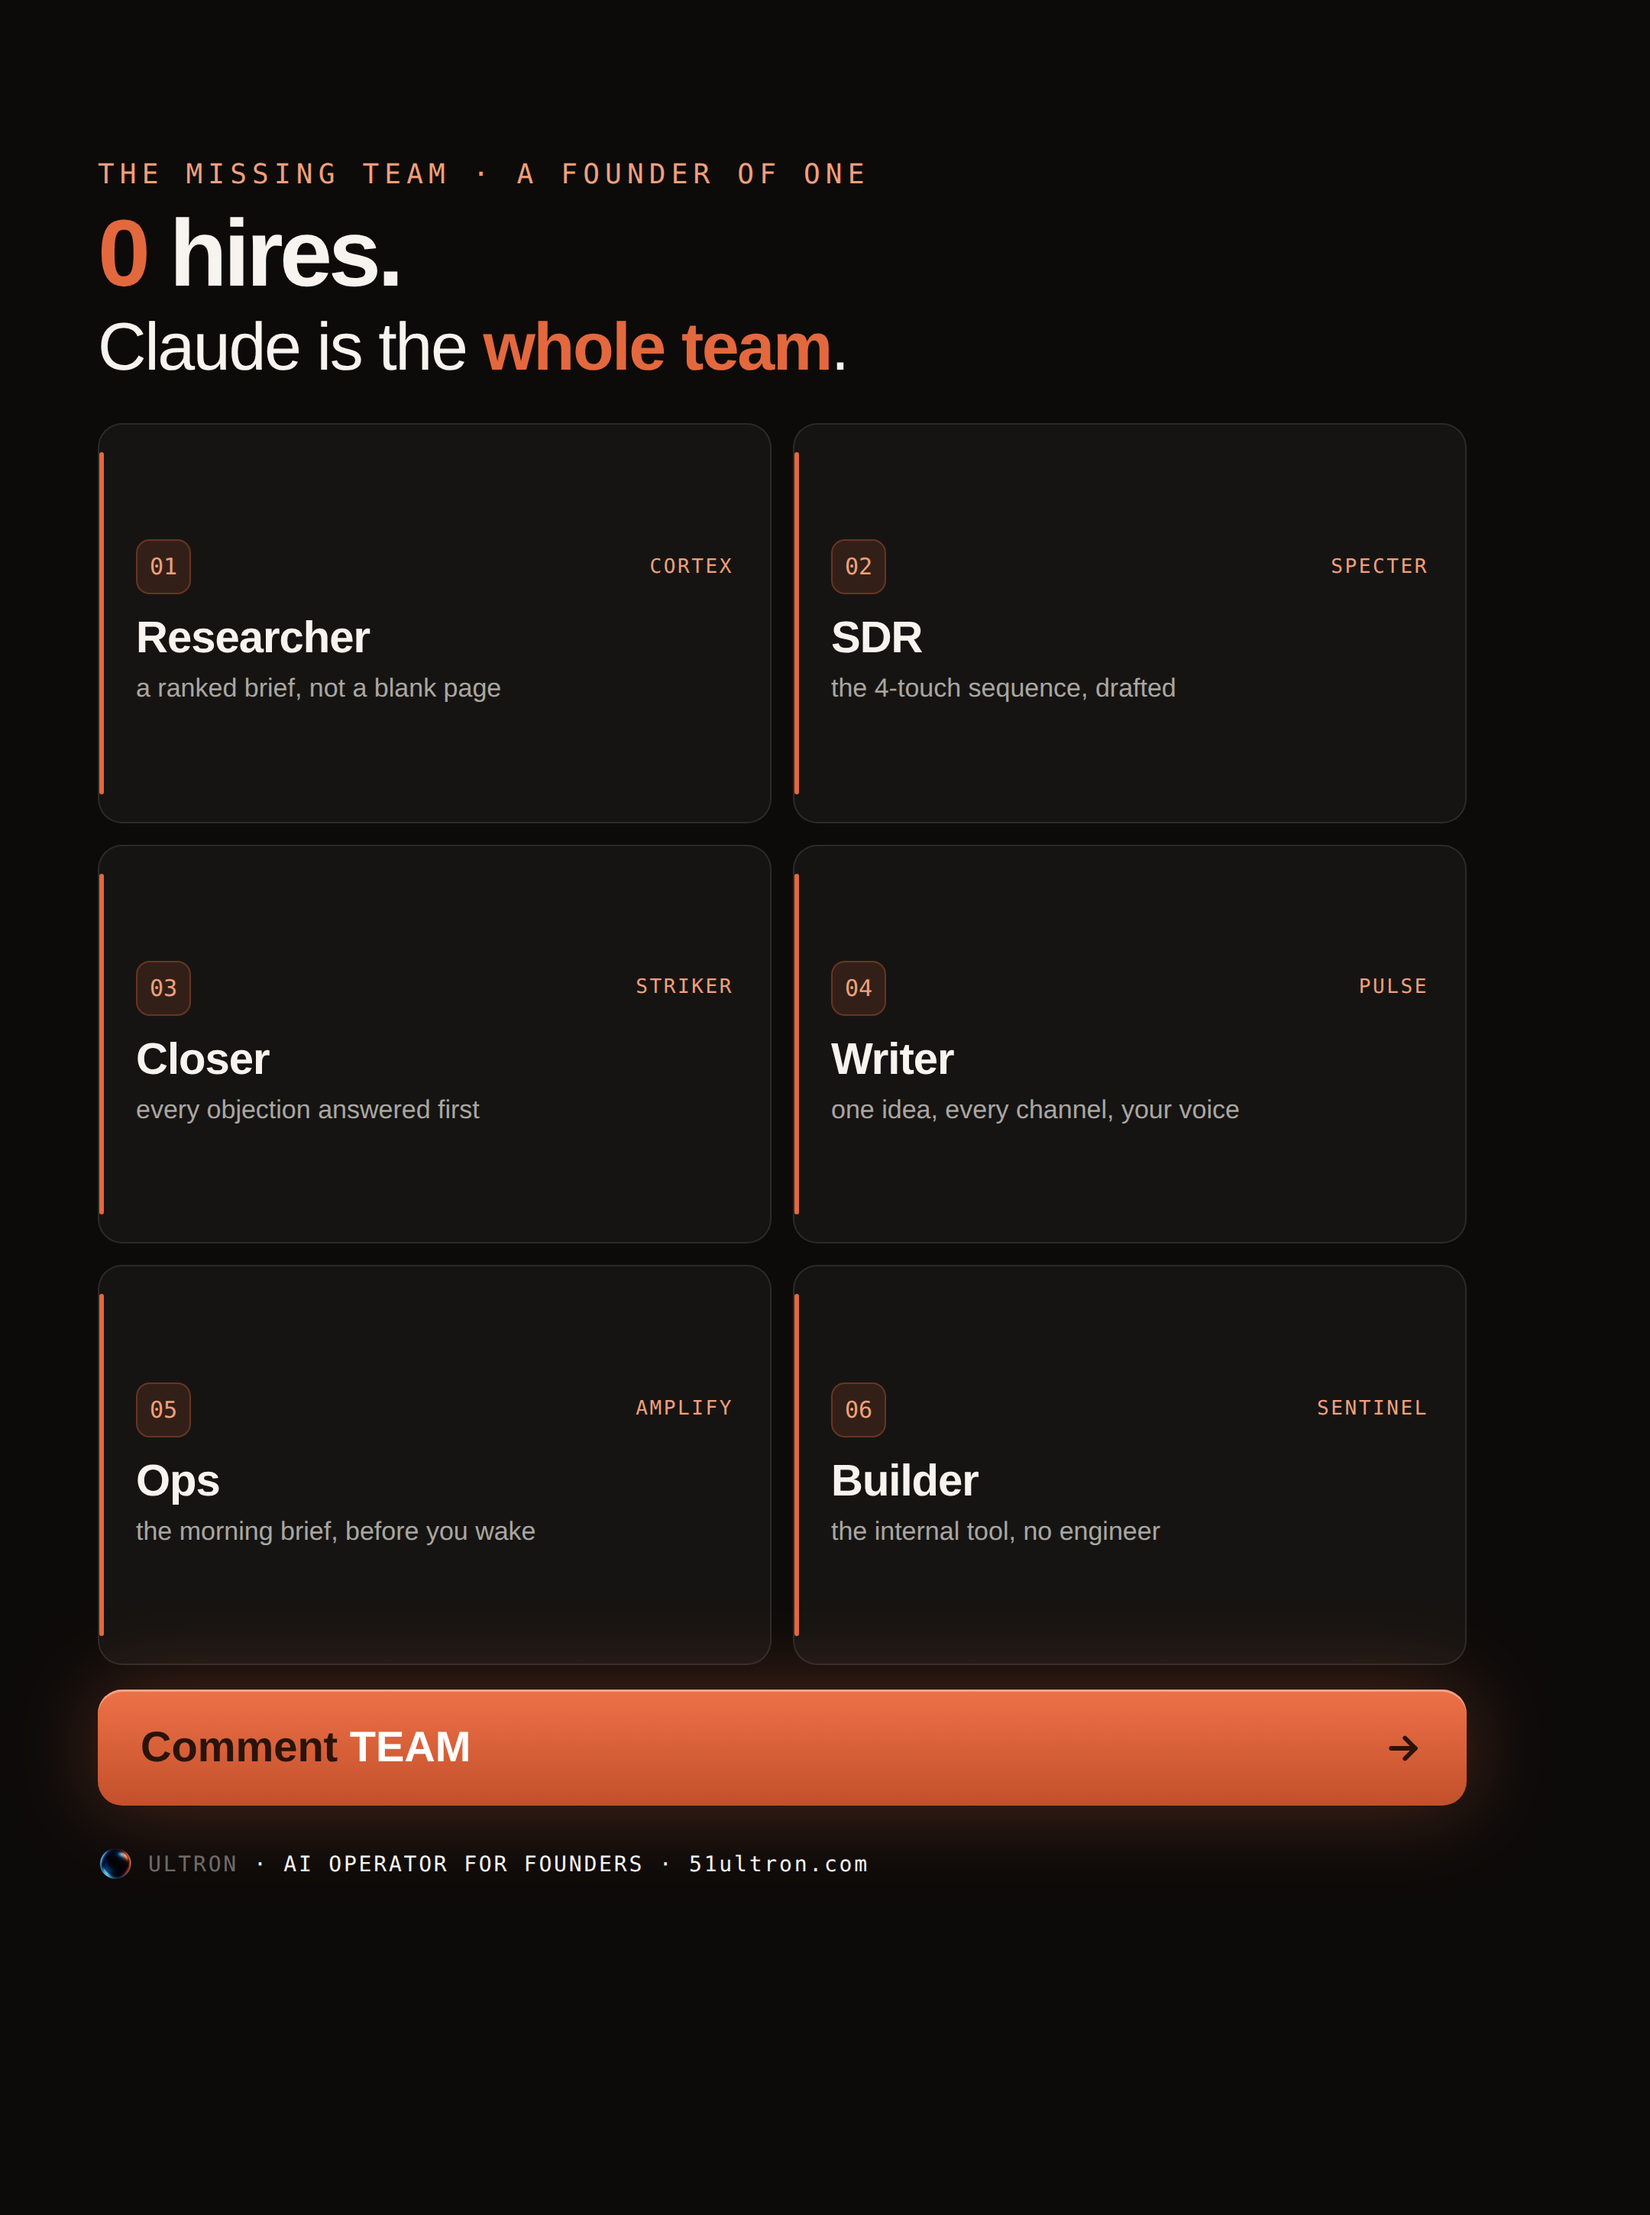
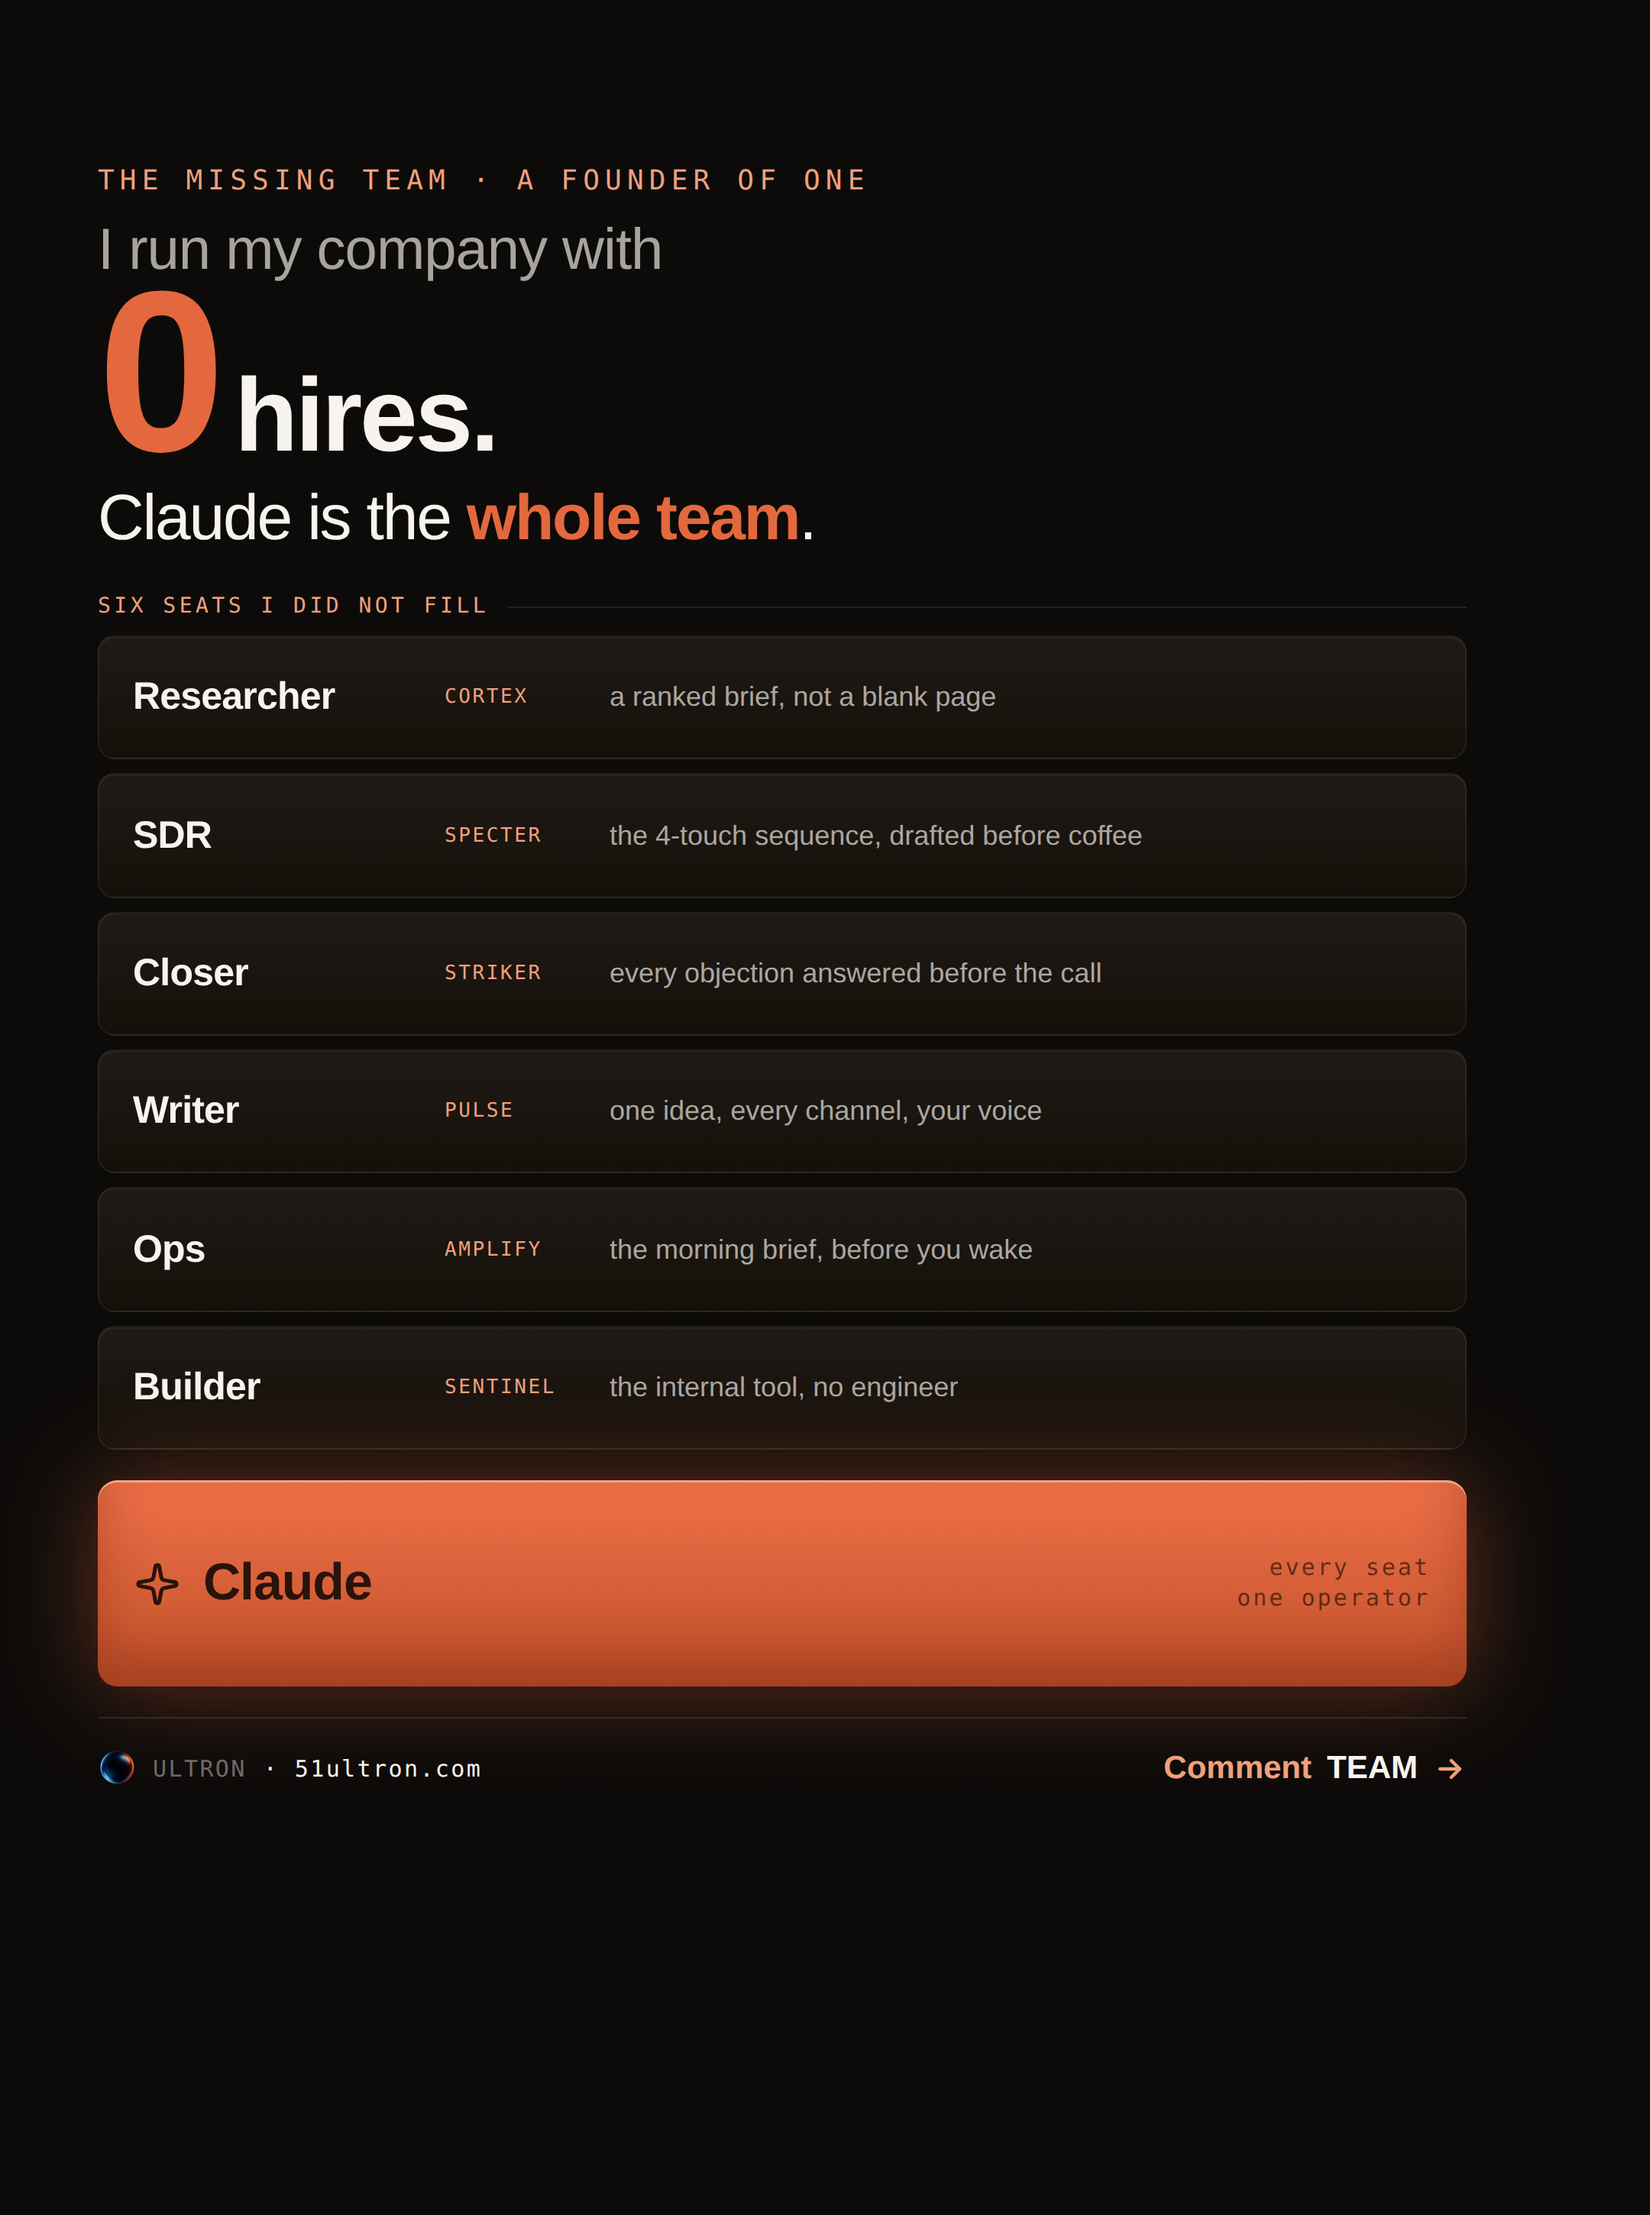
team: redo infographic on the approved bar-viz language (drop the flat card grid)
Operator: the 6-card grid infographic was generic/weak. Rebuilt as the approved cover language: giant mixed hook + six enriched role-bars (role + agent + one-line value) collapsing into the glowing coral Claude bar, matte with ambient glow only on the focal, Comment TEAM footer. 1080x1450 + safe zones, charscan clean, guard PASS.

https://claude.ai/code/session_018fS7xMwDiJUxoNS3zo3BKw

diff --git a/content/team-tiktok-1450-infographic.html b/content/team-tiktok-1450-infographic.html
@@ -5,58 +5,73 @@
 <title>the missing team - single-image infographic - TikTok 1080x1450</title>
 <style>
 @import 'https://fonts.googleapis.com/css2?family=DM+Sans:opsz,wght@9..40,400;9..40,500;9..40,600;9..40,700;9..40,800;9..40,900&family=DM+Mono:wght@400;500&display=swap';
-/* Single-image infographic for hook #1 "the missing team" - the whole 6-role team in one dense
-   frame (reach/save play). TikTok 1080x1450 + safe zones. Matte near-black, coral accents, soft
-   glow on the Claude line + CTA. No gloss gradients on the role cells. DM Sans / DM Mono. */
+/* Single-image infographic, hook #1 "the missing team" - the APPROVED cover language (not a flat
+   card grid). Giant mixed hook + 6 enriched role-bars collapsing into the glowing coral Claude bar
+   + hand-drawn arrow. Matte near-black, soft ambient glow only on the Claude bar. TikTok 1080x1450
+   + safe zones. DM Sans / DM Mono. */
 :root{
   --dk:#0D0B0A; --wt:#F7F4EF; --wt-66:rgba(247,244,239,.66); --wt-42:rgba(247,244,239,.42); --wt-10:rgba(247,244,239,.1);
   --cor:#E3683E; --cor-deep:#B14625; --cor-lt:#F0A07C;
-  --st:104px; --sr:120px; --sb:268px; --sl:64px;
+  --st:108px; --sr:120px; --sb:280px; --sl:64px;
 }
 *{margin:0;padding:0;box-sizing:border-box;}
 body{background:#070606;display:flex;justify-content:center;padding:30px 0;font-family:'DM Sans',sans-serif;}
 .slide{width:1080px;height:1450px;position:relative;overflow:hidden;background:var(--dk);color:var(--wt);}
 .safe{position:absolute;top:var(--st);left:var(--sl);right:var(--sr);bottom:var(--sb);display:flex;flex-direction:column;}
 .eyebrow{font-family:'DM Mono',monospace;font-size:18px;font-weight:500;letter-spacing:.2em;color:var(--cor-lt);}
-.hook{margin-top:12px;font-size:62px;font-weight:800;letter-spacing:-2.4px;line-height:.98;}
-.hook .n{color:var(--cor);}
-.hook .l2{display:block;font-size:44px;font-weight:500;letter-spacing:-1.2px;color:var(--wt);margin-top:8px;}
-.hook .l2 em{font-style:normal;color:var(--cor);font-weight:700;}
-.grid{margin-top:28px;flex:1;display:grid;grid-template-columns:1fr 1fr;grid-template-rows:repeat(3,1fr);gap:14px;}
-.cell{position:relative;border-radius:16px;background:rgba(247,244,239,.04);border:1px solid var(--wt-10);
-  padding:22px 24px;display:flex;flex-direction:column;justify-content:center;overflow:hidden;}
-.cell::before{content:'';position:absolute;left:0;top:18px;bottom:18px;width:3px;border-radius:2px;background:var(--cor);}
-.cell .top{display:flex;align-items:center;gap:11px;}
-.cell .nm{width:36px;height:36px;border-radius:9px;background:rgba(227,104,62,.14);border:1px solid rgba(227,104,62,.3);
-  display:flex;align-items:center;justify-content:center;font-family:'DM Mono',monospace;font-size:15px;color:var(--cor-lt);}
-.cell .ag{margin-left:auto;font-family:'DM Mono',monospace;font-size:13px;letter-spacing:.1em;color:var(--cor-lt);}
-.cell .role{margin-top:13px;font-size:29px;font-weight:800;letter-spacing:-.5px;color:var(--wt);}
-.cell .vl{margin-top:5px;font-size:17px;line-height:1.3;color:var(--wt-66);}
-.cta{margin-top:16px;position:relative;display:flex;align-items:center;gap:16px;border-radius:16px;padding:22px 28px;
-  background:linear-gradient(180deg,#EE7148,#C2502A);box-shadow:0 0 56px rgba(227,104,62,.32),inset 0 1.5px 0 rgba(255,214,190,.5);}
-.cta .t{font-size:28px;font-weight:800;color:#2A130B;}.cta .t em{font-style:normal;color:#fff;}
-.cta svg{width:27px;height:27px;color:#2A130B;margin-left:auto;}
-.brand{position:absolute;left:var(--sl);bottom:calc(var(--sb) - 50px);display:flex;align-items:center;gap:10px;
-  font-family:'DM Mono',monospace;font-size:14px;letter-spacing:.1em;color:var(--wt-42);}
-.brand img{width:23px;height:23px;border-radius:50%;}.brand b{color:var(--wt);font-weight:500;}
+.cv-l1{margin-top:14px;font-size:38px;font-weight:500;letter-spacing:-.5px;color:var(--wt-66);}
+.cv-big{display:flex;align-items:baseline;gap:13px;margin-top:-4px;}
+.cv-num{font-size:150px;font-weight:800;letter-spacing:-7px;line-height:.82;color:var(--cor);}
+.cv-w{font-size:68px;font-weight:800;letter-spacing:-1.6px;color:var(--wt);}
+.cv-l3{font-size:42px;font-weight:500;letter-spacing:-1.1px;color:var(--wt);margin-top:4px;}
+.cv-l3 em{font-style:normal;color:var(--cor);font-weight:700;}
+.stack{margin-top:26px;flex:1;display:flex;flex-direction:column;}
+.slbl{display:flex;align-items:center;gap:12px;font-family:'DM Mono',monospace;font-size:14px;letter-spacing:.16em;color:var(--cor-lt);margin-bottom:11px;}
+.slbl .ln{flex:1;height:1px;background:var(--wt-10);}
+.rows{flex:1;display:flex;flex-direction:column;gap:9px;}
+.ibar{flex:1;display:flex;align-items:center;gap:16px;border-radius:11px;background:linear-gradient(180deg,#201A16,#141009);
+  border:1px solid rgba(247,244,239,.07);padding:0 22px;box-shadow:inset 0 1px 0 rgba(255,255,255,.04);}
+.ibar .ir{font-size:25px;font-weight:800;letter-spacing:-.4px;color:var(--wt);width:188px;flex-shrink:0;}
+.ibar .ia{font-family:'DM Mono',monospace;font-size:13px;letter-spacing:.1em;color:var(--cor-lt);width:92px;flex-shrink:0;}
+.ibar .iv{font-size:18px;color:var(--wt-66);line-height:1.25;}
+.claude{flex:1.7;display:flex;align-items:center;gap:15px;border-radius:13px;margin-top:11px;padding:0 24px;
+  background:linear-gradient(180deg,#EE7148,#C2502A);
+  box-shadow:0 0 64px rgba(227,104,62,.42),inset 0 1.5px 0 rgba(255,214,190,.55),inset 0 -18px 34px rgba(120,40,18,.42);}
+.claude .spk{width:30px;height:30px;color:#2A130B;flex-shrink:0;}
+.claude .cn{font-size:34px;font-weight:800;letter-spacing:-.5px;color:#2A130B;}
+.claude .cv{margin-left:auto;font-family:'DM Mono',monospace;font-size:15px;letter-spacing:.1em;color:rgba(42,19,11,.7);text-align:right;line-height:1.3;}
+.foot{margin-top:20px;display:flex;align-items:center;justify-content:space-between;border-top:1px solid var(--wt-10);padding-top:20px;}
+.foot .l{display:flex;align-items:center;gap:11px;font-family:'DM Mono',monospace;font-size:15px;letter-spacing:.08em;color:var(--wt-42);}
+.foot .l img{width:25px;height:25px;border-radius:50%;}.foot .l b{color:var(--wt);font-weight:500;}
+.foot .r{display:flex;align-items:center;gap:10px;font-size:21px;font-weight:800;color:var(--cor-lt);}
+.foot .r em{font-style:normal;color:var(--wt);}
+.foot .r svg{width:22px;height:22px;color:var(--cor-lt);}
 </style>
 </head>
 <body>
 <div class="slide">
   <div class="safe">
     <div class="eyebrow">THE MISSING TEAM &middot; A FOUNDER OF ONE</div>
-    <div class="hook"><span class="n">0</span> hires.<span class="l2">Claude is the <em>whole team</em>.</span></div>
-    <div class="grid">
-      <div class="cell"><div class="top"><span class="nm">01</span><span class="ag">CORTEX</span></div><div class="role">Researcher</div><div class="vl">a ranked brief, not a blank page</div></div>
-      <div class="cell"><div class="top"><span class="nm">02</span><span class="ag">SPECTER</span></div><div class="role">SDR</div><div class="vl">the 4-touch sequence, drafted</div></div>
-      <div class="cell"><div class="top"><span class="nm">03</span><span class="ag">STRIKER</span></div><div class="role">Closer</div><div class="vl">every objection answered first</div></div>
-      <div class="cell"><div class="top"><span class="nm">04</span><span class="ag">PULSE</span></div><div class="role">Writer</div><div class="vl">one idea, every channel, your voice</div></div>
-      <div class="cell"><div class="top"><span class="nm">05</span><span class="ag">AMPLIFY</span></div><div class="role">Ops</div><div class="vl">the morning brief, before you wake</div></div>
-      <div class="cell"><div class="top"><span class="nm">06</span><span class="ag">SENTINEL</span></div><div class="role">Builder</div><div class="vl">the internal tool, no engineer</div></div>
+    <div class="cv-l1">I run my company with</div>
+    <div class="cv-big"><span class="cv-num">0</span><span class="cv-w">hires.</span></div>
+    <div class="cv-l3">Claude is the <em>whole team</em>.</div>
+    <div class="stack">
+      <div class="slbl">SIX SEATS I DID NOT FILL<span class="ln"></span></div>
+      <div class="rows">
+        <div class="ibar"><span class="ir">Researcher</span><span class="ia">CORTEX</span><span class="iv">a ranked brief, not a blank page</span></div>
+        <div class="ibar"><span class="ir">SDR</span><span class="ia">SPECTER</span><span class="iv">the 4-touch sequence, drafted before coffee</span></div>
+        <div class="ibar"><span class="ir">Closer</span><span class="ia">STRIKER</span><span class="iv">every objection answered before the call</span></div>
+        <div class="ibar"><span class="ir">Writer</span><span class="ia">PULSE</span><span class="iv">one idea, every channel, your voice</span></div>
+        <div class="ibar"><span class="ir">Ops</span><span class="ia">AMPLIFY</span><span class="iv">the morning brief, before you wake</span></div>
+        <div class="ibar"><span class="ir">Builder</span><span class="ia">SENTINEL</span><span class="iv">the internal tool, no engineer</span></div>
+        <div class="claude"><svg class="spk" viewBox="0 0 24 24" fill="none" stroke="currentColor" stroke-width="2" stroke-linecap="round" stroke-linejoin="round"><path d="M11.017 2.814a1 1 0 0 1 1.966 0l1.051 5.558a2 2 0 0 0 1.594 1.594l5.558 1.051a1 1 0 0 1 0 1.966l-5.558 1.051a2 2 0 0 0-1.594 1.594l-1.051 5.558a1 1 0 0 1-1.966 0l-1.051-5.558a2 2 0 0 0-1.594-1.594l-5.558-1.051a1 1 0 0 1 0-1.966l5.558-1.051a2 2 0 0 0 1.594-1.594z"/></svg><span class="cn">Claude</span><span class="cv">every seat<br>one operator</span></div>
+      </div>
     </div>
-    <div class="cta"><span class="t">Comment <em>TEAM</em></span><svg viewBox="0 0 24 24" fill="none" stroke="currentColor" stroke-width="2.6" stroke-linecap="round" stroke-linejoin="round"><path d="M5 12h14"/><path d="m13 6 6 6-6 6"/></svg></div>
+    <div class="foot">
+      <div class="l"><img src="__LOGO_URI__" alt="">ULTRON <b>&middot; 51ultron.com</b></div>
+      <div class="r">Comment <em>TEAM</em><svg viewBox="0 0 24 24" fill="none" stroke="currentColor" stroke-width="2.4" stroke-linecap="round" stroke-linejoin="round"><path d="M5 12h14"/><path d="m13 6 6 6-6 6"/></svg></div>
+    </div>
   </div>
-  <div class="brand"><img src="__LOGO_URI__" alt="">ULTRON <b>&middot; AI OPERATOR FOR FOUNDERS &middot; 51ultron.com</b></div>
 </div>
 </body>
 </html>
